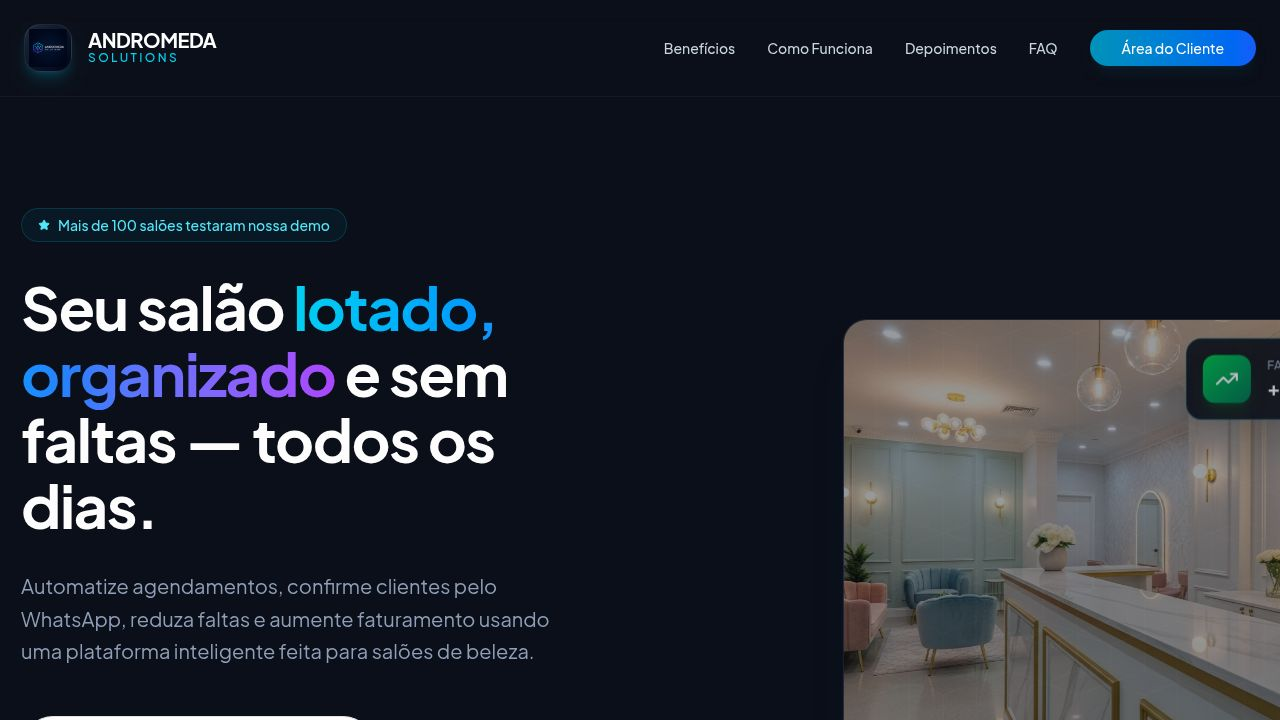
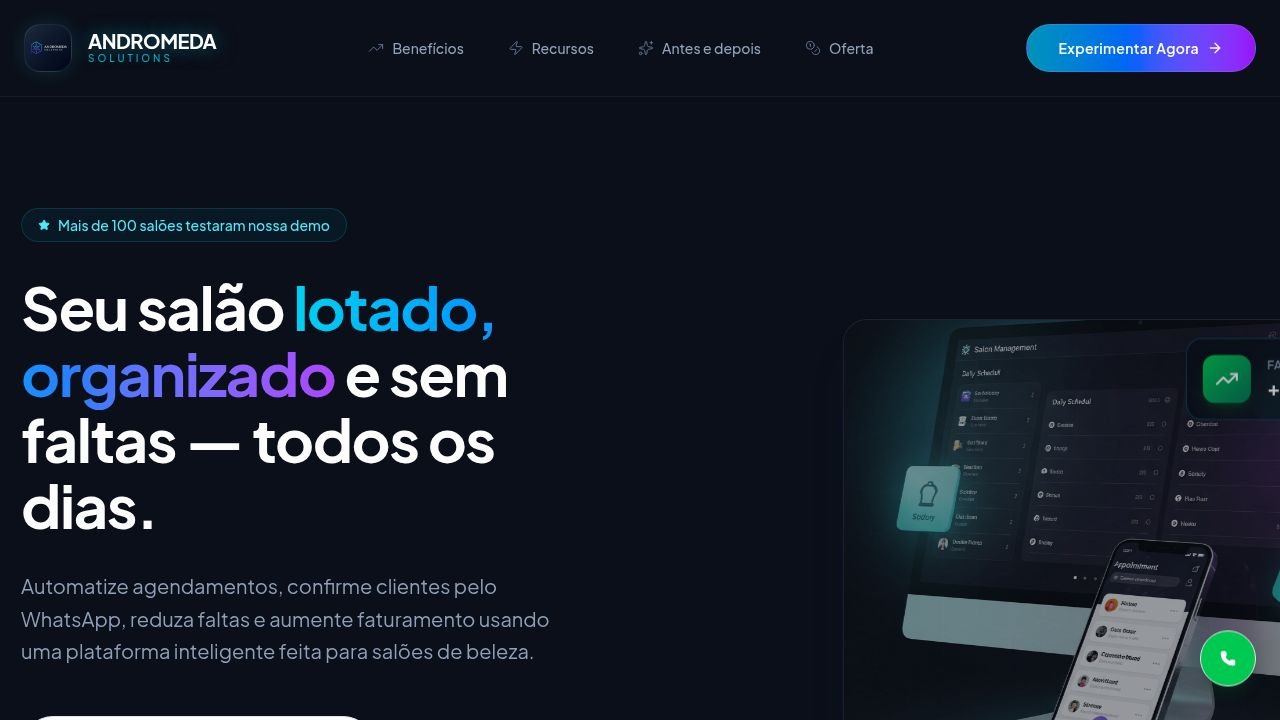
Update landing page hero with a professional multi-device software mockup
Replace the existing landing page hero image with a new, high-resolution mockup showcasing the software on both desktop and mobile devices.

Replit-Commit-Author: Agent
Replit-Commit-Session-Id: 54218e1b-f816-48f9-913f-1b3b0093ae56
Replit-Commit-Checkpoint-Type: full_checkpoint
Replit-Commit-Event-Id: 915013b4-a46f-45b3-81c1-b2b6aa24b869
Replit-Commit-Screenshot-Url: https://storage.googleapis.com/screenshot-production-us-central1/29d09c57-3e2c-489d-b643-98b7650f7944/54218e1b-f816-48f9-913f-1b3b0093ae56/2HlAL5b
Replit-Helium-Checkpoint-Created: true

diff --git a/client/src/pages/Landing.tsx b/client/src/pages/Landing.tsx
@@ -23,7 +23,7 @@ import {
   Phone
 } from "lucide-react";
 import andromedaLogo from "@/assets/andromeda_logo_new.png";
-import heroImage from "@assets/generated_images/modern_beauty_salon_reception_with_tablet.png";
+import heroImage from "@assets/generated_images/premium_multi-device_mockup_of_salon_software_on_desktop_and_mobile_with_dark_tech_aesthetic.png";
 import demoCapture from "@assets/capture_251209_000149_1765249335459.png";
 import stylist1 from "@assets/generated_images/portrait_of_a_female_hair_stylist.png";
 import stylist2 from "@assets/generated_images/portrait_of_a_male_hair_stylist.png";
